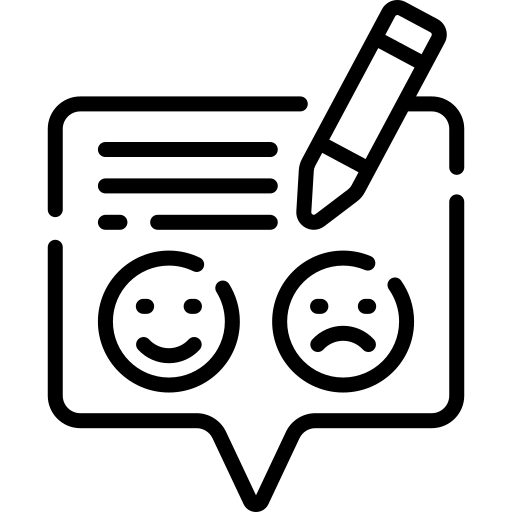
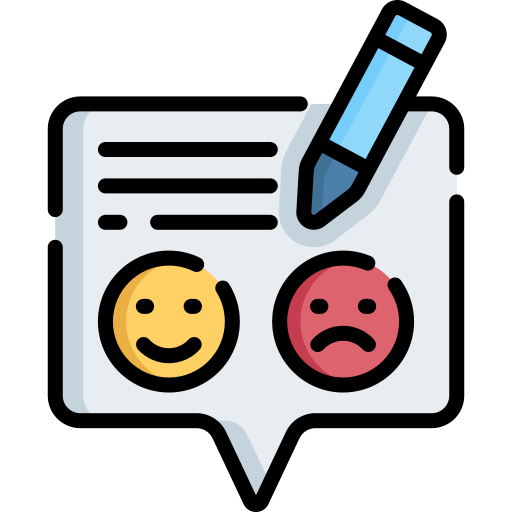
editied feedback button code to change color, opacity, and placement in components

diff --git a/src/styles/FeedbackButton.module.css b/src/styles/FeedbackButton.module.css
@@ -1,40 +1,20 @@
 .btn {
     position: fixed;
-    bottom: 1.5rem;
-    right: 1.5rem;
-    z-index: 1000;
-    display: flex;
-    align-items: center;
     text-decoration: none;
+    margin-right: 1.5rem;
+    margin-bottom: 1rem;
+    bottom: 0;
+    right: 0;
 }
 
 .icon {
     width: 44px;
     height: 44px;
-    opacity: 0.75;
+    opacity: 0.8;
     transition: opacity 0.15s ease, transform 0.15s ease;
 }
 
 .btn:hover .icon {
     opacity: 1;
     transform: scale(1.1);
-}
-
-.tooltip {
-    position: absolute;
-    right: calc(100% + 8px);
-    background-color: #004A94;
-    color: #ffffff;
-    font-family: "Imprima", sans-serif;
-    font-size: 13px;
-    padding: 0.3rem 0.6rem;
-    border-radius: 4px;
-    white-space: nowrap;
-    opacity: 0;
-    pointer-events: none;
-    transition: opacity 0.15s ease;
-}
-
-.btn:hover .tooltip {
-    opacity: 1;
 }

diff --git a/src/components/FeedbackButton.tsx b/src/components/FeedbackButton.tsx
@@ -1,17 +1,19 @@
 import feedbackIcon from "../assets/feedbackIcon.png";
 import styles from "../styles/FeedbackButton.module.css";
+import Tooltip from "@mui/material/Tooltip";
 
 function FeedbackButton() {
     return (
-        <a
-            className={styles.btn}
-            href="https://forms.gle/nWyB69visGQJQEcUA"
-            target="_blank"
-            rel="noopener noreferrer"
-        >
-            <img src={feedbackIcon} alt="Feedback" className={styles.icon} />
-            <span className={styles.tooltip}>Feedback</span>
-        </a>
+        <Tooltip title="Feedback">
+            <a
+                className={styles.btn}
+                href="https://forms.gle/nWyB69visGQJQEcUA"
+                target="_blank"
+                rel="icon"
+            >
+                <img src={feedbackIcon} alt="feedback button" className={styles.icon} />
+            </a>
+        </Tooltip>
     );
 }
 

diff --git a/src/App.tsx b/src/App.tsx
@@ -14,17 +14,15 @@ import Theme from "./components/Theme";
 import ChangePassword from "./components/ChangePassword";
 import DeleteAccount from "./components/DeleteAccount";
 import About from "./components/About";
-import FeedbackButton from "./components/FeedbackButton";
 
 /*
     Description: This file contains all the public and private routes.
-    Last updated: 6/6/2026
+    Last updated: 7/5/2026
 */
 
 function App() {  
     return (
         <BrowserRouter>
-            <FeedbackButton />
             <Routes>
                 {/* public routes */}
                 <Route path="/" element={<Home />} />

diff --git a/src/components/AccountInformation.tsx b/src/components/AccountInformation.tsx
@@ -3,6 +3,7 @@ import ProfileNavbar from "./ProfileNavbar";
 import styles from "../styles/Profile.module.css";
 import { useEffect, useState } from 'react';
 import UserAuth from "../AuthContext";
+import FeedbackButton from "./FeedbackButton";
 
 /*
     Description: This component displays basic user information.
@@ -83,6 +84,7 @@ function AccountInformation() {
                     </div>
                 </div>
             </div>
+            <FeedbackButton />
         </div>
     );
 }

diff --git a/src/components/ChangePassword.tsx b/src/components/ChangePassword.tsx
@@ -4,6 +4,7 @@ import { useState, type ChangeEvent } from 'react';
 import styles from "../styles/Profile.module.css";
 import Tooltip from "@mui/material/Tooltip";
 import UserAuth from "../AuthContext";
+import FeedbackButton from "./FeedbackButton";
 
 /*
     Description: This component allows user to change their password.
@@ -130,6 +131,7 @@ function ChangePassword() {
                     </div>
                 </div>
             </div>
+            <FeedbackButton />
         </div>
     );
 }

diff --git a/src/components/Dashboard.tsx b/src/components/Dashboard.tsx
@@ -8,6 +8,7 @@ import styles from "../styles/Dashboard.module.css";
 import UserAuth from "../AuthContext";
 import Tooltip from "@mui/material/Tooltip";
 import DashboardAnimation from "./DashboardAnimation";
+import FeedbackButton from "./FeedbackButton";
 
 function Dashboard() {
     const navigate = useNavigate();
@@ -390,6 +391,7 @@ function Dashboard() {
                     </div>
                 </div>
             </div>
+            <FeedbackButton />
         </>
     );
 }

diff --git a/src/components/DeleteAccount.tsx b/src/components/DeleteAccount.tsx
@@ -6,6 +6,7 @@ import { faCheck, faX } from "@fortawesome/free-solid-svg-icons";
 import { useNavigate } from "react-router-dom";
 import { useState } from 'react';
 import UserAuth from "../AuthContext";
+import FeedbackButton from "./FeedbackButton";
 
 /*
     Description: This component allows user to delete their account.
@@ -127,6 +128,7 @@ function DeleteAccount() {
                     </form>
                 </div>
             </div>
+            <FeedbackButton />
         </div>
     );
 }

diff --git a/src/components/Edit.tsx b/src/components/Edit.tsx
@@ -18,6 +18,7 @@ import UserAuth from "../AuthContext";
 import GiphyLogo from "../assets/giphyLogo.png";
 import Tooltip from "@mui/material/Tooltip";
 import type Card from "../interfaces/Card";
+import FeedbackButton from "./FeedbackButton";
 
 /*
     Description: This component allows the user create, update, or delete deck content.
@@ -907,6 +908,7 @@ function Edit() {
                     </div>
                 </div>
             </div>
+            <FeedbackButton />
         </div>
     );
 }

diff --git a/src/components/Login.tsx b/src/components/Login.tsx
@@ -3,6 +3,7 @@ import { useEffect, useState, type ChangeEvent } from "react";
 import UserAuth from "../AuthContext";
 import styles from "../styles/Home.module.css";
 import HomeAnimation from "./HomeAnimation";
+import FeedbackButton from "./FeedbackButton";
 
 /*
     Description: This component is the login page for a user to access their account.
@@ -120,6 +121,7 @@ function Login() {
                     </button>
                 </form>
             </div>
+            <FeedbackButton />
         </>
     );
 }

diff --git a/src/components/Signup.tsx b/src/components/Signup.tsx
@@ -4,6 +4,7 @@ import UserAuth from "../AuthContext";
 import HomeAnimation from "./HomeAnimation";
 import Tooltip from "@mui/material/Tooltip";
 import styles from "../styles/Home.module.css";
+import FeedbackButton from "./FeedbackButton";
 
 /*
     Description: This component is the signup page for a user to create an account.
@@ -132,6 +133,7 @@ function Signup() {
                     </button>
                 </form>
             </div>
+            <FeedbackButton />
         </>
     );
 }

diff --git a/src/components/Study.tsx b/src/components/Study.tsx
@@ -6,6 +6,7 @@ import styles from "../styles/Deck.module.css";
 import { useParams } from "react-router-dom";
 import type Card from "../interfaces/Card";
 import UserAuth from "../AuthContext";
+import FeedbackButton from "./FeedbackButton";
 
 /*
     Description: This component allows the user to study deck content.
@@ -268,6 +269,7 @@ function Study() {
                     </div>
                 </div>
             </div>
+            <FeedbackButton />
         </>
     );
 }

diff --git a/src/components/Theme.tsx b/src/components/Theme.tsx
@@ -4,6 +4,7 @@ import styles from "../styles/Profile.module.css";
 import { useEffect, useState } from 'react';
 import UserAuth from "../AuthContext";
 import type Profile from "../interfaces/Profile";
+import FeedbackButton from "./FeedbackButton";
 
 /*
     Description: This component allows user to change background animation.
@@ -119,6 +120,7 @@ function Theme() {
                     </div>
                 </div>
             </div>
+            <FeedbackButton />
         </div>
     );
 }